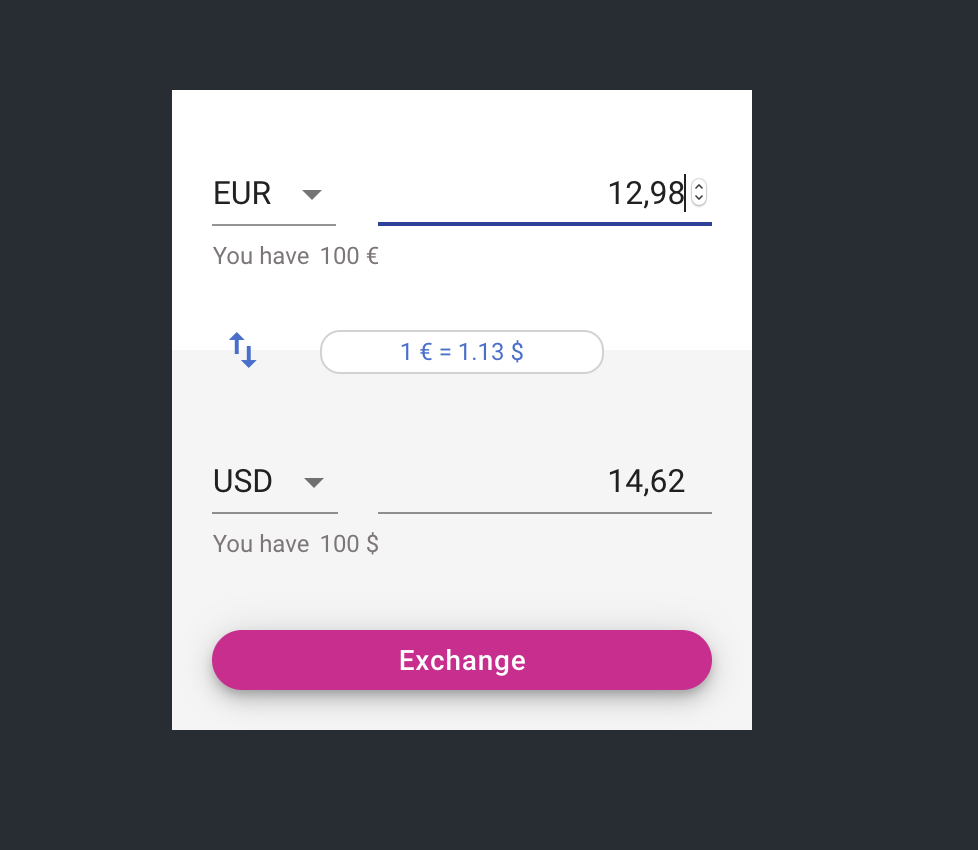
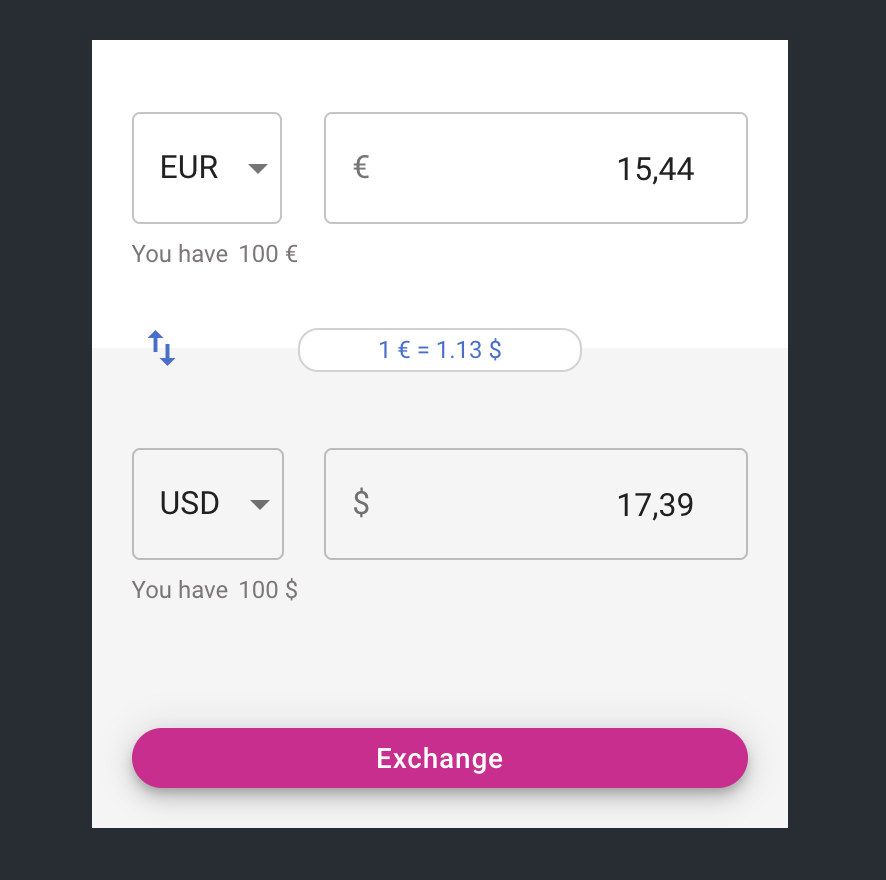
changed inputs to outlined

diff --git a/src/components/CurrencyInput/CurrencyInput.js b/src/components/CurrencyInput/CurrencyInput.js
@@ -1,6 +1,12 @@
 import React from 'react';
 import './CurrencyInput.css';
-import { Select, MenuItem, TextField } from '@material-ui/core';
+import {
+  Select,
+  MenuItem,
+  TextField,
+  OutlinedInput,
+  InputAdornment,
+} from '@material-ui/core';
 import { pure } from 'recompose';
 import PropTypes from 'prop-types';
 import { CurrencyPropType } from '../../model/currency.model';
@@ -28,6 +34,7 @@ const CurrencyInputRaw = props => {
   return (
     <div className="CurrencyInput">
       <Select
+        input={<OutlinedInput />}
         value={props.currency ? props.currency.currency : ''}
         onChange={e => handleCurrencyChange(props)(e.target.value)}
       >
@@ -35,6 +42,14 @@ const CurrencyInputRaw = props => {
       </Select>
       <TextField
         type="number"
+        variant="outlined"
+        InputProps={{
+          startAdornment: (
+            <InputAdornment position="start">
+              {props.currency.symbol}
+            </InputAdornment>
+          ),
+        }}
         value={props.amount}
         onChange={e => handleAmountChange(props)(e.target.value)}
         margin="normal"

diff --git a/src/components/Exchanger/Exchanger.css b/src/components/Exchanger/Exchanger.css
@@ -31,7 +31,7 @@
 
 .Exchanger_bottom-section {
   background: #f5f5f5;
-  min-height: 150px;
+  min-height: 200px;
   position: relative;
 }
 
